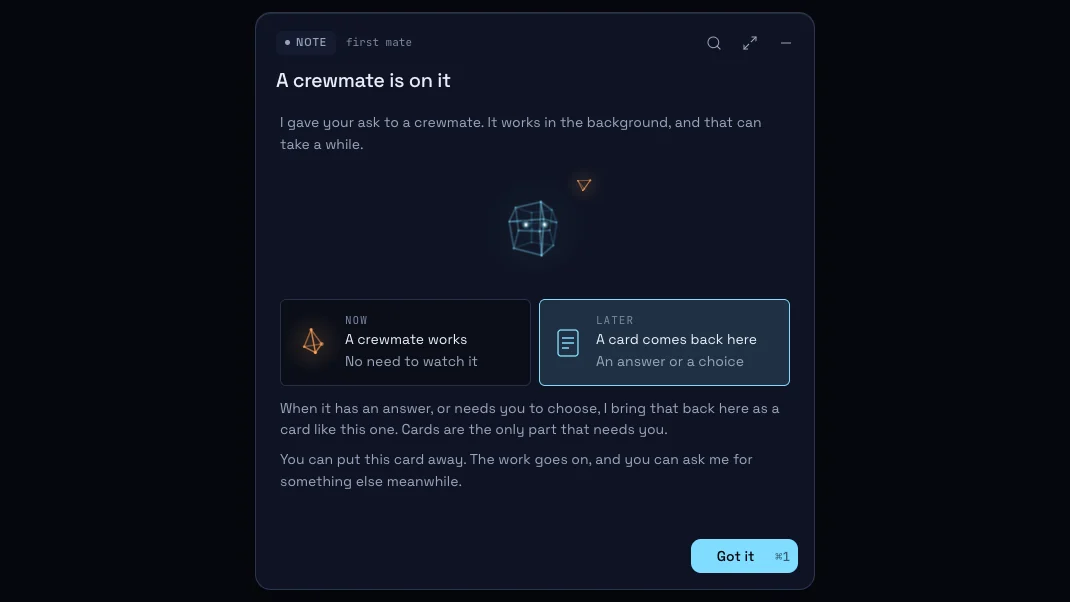
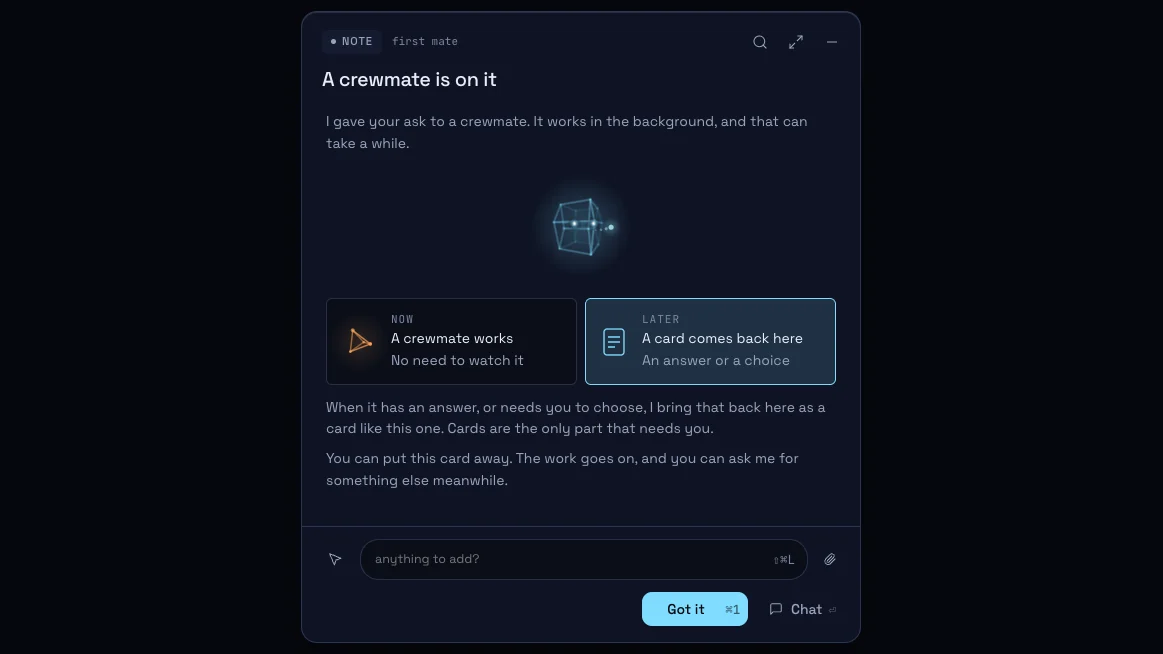
fix(first-run): let the first crewmate's note take a reply
The first crewmate's note now takes a reply the first mate answers, like
every app card but the welcome and the cards shown while the first mate is
down. Its docs, the design readme, the migration 70 comment and the docs
site's pictures of the note follow.

diff --git a/tests/e2e/first-crewmate-note.spec.ts b/tests/e2e/first-crewmate-note.spec.ts
@@ -18,7 +18,7 @@ import {
   FIRST_CREWMATE_CARD_TITLE,
   firstCrewmateCard,
 } from "./scenarios/firstCrewmateCard";
-import { expectNoCard, shownCard, stageAtRest } from "./stack";
+import { cardReply, expectNoCard, shownCard, stageAtRest } from "./stack";
 import { pressWindowKey } from "./windowKeys";
 
 /**
@@ -127,12 +127,10 @@ test("a new person's first crewmate shows its note once, in place of the welcome
       await expectNoCard(page, WELCOME_TITLE);
       expect(await openTitles(page)).toEqual([FIRST_CREWMATE_TITLE]);
       const cards = await page.evaluate(() => window.infinitary.cards.list());
-      expect(cards[0]).toMatchObject({
-        author: "firstmate",
-        actions: [],
-        replies: false,
-        width: "regular",
-      });
+      expect(cards[0]).toMatchObject({ author: "firstmate", actions: [], width: "regular" });
+      // The captain's choice on INF-7001's review: the note takes a reply the first mate answers.
+      expect(cards[0]).not.toHaveProperty("replies");
+      await expect(cardReply(page).field).toBeVisible();
       noteId = cards[0]?.id ?? "";
       const record = await page.evaluate(() => window.infinitary.app.firstRun());
       expect(record.firstCrewmateNoteId).toBe(noteId);

diff --git a/src/core/firstRun.ts b/src/core/firstRun.ts
@@ -101,9 +101,10 @@ export function crewFacts(
  * How the first crewmate's note goes up (docs/first-launch.md "The first
  * crewmate's note"). The welcome steps aside for it (INF-5532, the
  * captain's "replace"): one card at a time, so the crewmate's first card
- * arrives on an open stage rather than behind the welcome. Like the
- * welcome, the note takes no reply and is the regular card its picture was
- * drawn for.
+ * arrives on an open stage rather than behind the welcome. Unlike the
+ * welcome, the note takes a reply, which the first mate answers (the
+ * captain's choice on INF-7001's review); it is the regular card its picture
+ * was drawn for.
  */
 export function presentFirstCrewmateNote(
   cards: Pick<CardService, "addRecordedFirstmateNote" | "has" | "takeDown">,
@@ -112,10 +113,7 @@ export function presentFirstCrewmateNote(
     if (welcomeCardId && cards.has(welcomeCardId)) {
       cards.takeDown(welcomeCardId, "first-crewmate-started");
     }
-    cards.addRecordedFirstmateNote(FIRST_CREWMATE_NOTE, record, {
-      replies: false,
-      width: "regular",
-    });
+    cards.addRecordedFirstmateNote(FIRST_CREWMATE_NOTE, record, { width: "regular" });
   };
 }
 

diff --git a/src/core/storage/migrations.ts b/src/core/storage/migrations.ts
@@ -945,8 +945,9 @@ export const MIGRATIONS: readonly Migration[] = [
   // 70: a card that takes no reply (FI3-1164; docs/card-threads.md "Who
   // answers a card"), as 0: its chrome draws no reply row and the core
   // refuses one, whoever its author is. The host writes it on the welcome
-  // only; null on every other card and on every card written before it,
-  // which take replies as their author allows. No published view reads the
+  // and on the first mate's cards for a seat that is down; null on every
+  // other card and on every card written before it, which take replies as
+  // their author allows. No published view reads the
   // column. Additive and reversible: dropping the column undoes it.
   (db) => addColumn(db, "cards", "replies", "INTEGER"),
   // 71: whom a task's event concerns (FI3-1189's rule 1; docs/task-record.md

diff --git a/src/core/firstRun.test.ts b/src/core/firstRun.test.ts
@@ -441,9 +441,10 @@ describe("the first crewmate's note", () => {
       id: record.firstCrewmateNoteId,
       author: "firstmate",
       actions: [],
-      replies: false,
       width: "regular",
     });
+    // The captain's choice on INF-7001's review: the note takes a reply the first mate answers.
+    expect(f.cards().snapshot()[0]).not.toHaveProperty("replies");
     // Its record keeps the note in words, and the welcome is settled as put away.
     expect(f.tasks.capture.taskForCard(record.firstCrewmateNoteId as string)).toMatchObject({
       kind: "question",

diff --git a/docs-site/src/content/docs/ar/first-launch.md b/docs-site/src/content/docs/ar/first-launch.md
@@ -1,5 +1,5 @@
 ---
-source: 042bc7f3959ec370
+source: 75bebd4c6bb16a9e
 title: التشغيل الأول
 description: ما يعرضه Infinitary أول مرة تفتحه، وكيف تختار أين يقيم نائب القبطان، وكيف تربط اشتراكًا، وكيف تضيف مشروعك الأول.
 ---
@@ -167,8 +167,8 @@ description: ما يعرضه Infinitary أول مرة تفتحه، وكيف تخ
 
 أول مرة يسلّم فيها نائب القبطان طلبًا إلى أحد أفراد الطاقم، تظهر بطاقة عنوانها **أحد أفراد الطاقم يتولى الأمر**.
 
-<img class="picture-dark" src="/pictures/first-launch-crewmate-dark.webp" alt="بطاقة «أحد أفراد الطاقم يتولى الأمر»: نائب القبطان يرسل أحد أفراد الطاقم إلى العمل، وقسم «الآن» يقول إن فردًا من الطاقم يعمل ولا داعي لمراقبته، وقسم «لاحقًا» يقول إن بطاقة تعود إلى هنا بإجابة أو خيار، و«فهمت»." width="1070" height="602" />
-<img class="picture-light" src="/pictures/first-launch-crewmate-light.webp" alt="بطاقة «أحد أفراد الطاقم يتولى الأمر»: نائب القبطان يرسل أحد أفراد الطاقم إلى العمل، وقسم «الآن» يقول إن فردًا من الطاقم يعمل ولا داعي لمراقبته، وقسم «لاحقًا» يقول إن بطاقة تعود إلى هنا بإجابة أو خيار، و«فهمت»." width="1070" height="602" />
+<img class="picture-dark" src="/pictures/first-launch-crewmate-dark.webp" alt="بطاقة «أحد أفراد الطاقم يتولى الأمر»: نائب القبطان يرسل أحد أفراد الطاقم إلى العمل، وقسم «الآن» يقول إن فردًا من الطاقم يعمل ولا داعي لمراقبته، وقسم «لاحقًا» يقول إن بطاقة تعود إلى هنا بإجابة أو خيار، و«فهمت»." width="1163" height="654" />
+<img class="picture-light" src="/pictures/first-launch-crewmate-light.webp" alt="بطاقة «أحد أفراد الطاقم يتولى الأمر»: نائب القبطان يرسل أحد أفراد الطاقم إلى العمل، وقسم «الآن» يقول إن فردًا من الطاقم يعمل ولا داعي لمراقبته، وقسم «لاحقًا» يقول إن بطاقة تعود إلى هنا بإجابة أو خيار، و«فهمت»." width="1163" height="654" />
 
 تقول إن فرد الطاقم يعمل في الخلفية، وقد يستغرق ذلك بعض الوقت، وإنه لا داعي لمراقبته.
 حين تكون لدى فرد الطاقم إجابة، أو يحتاج إلى أن تختار، يعود ذلك إليك في بطاقة.

diff --git a/docs-site/src/content/docs/de/first-launch.md b/docs-site/src/content/docs/de/first-launch.md
@@ -1,5 +1,5 @@
 ---
-source: 042bc7f3959ec370
+source: 75bebd4c6bb16a9e
 title: Der erste Start
 description: Was Infinitary beim ersten Öffnen zeigt, wie du wählst, wo dein erster Offizier lebt, wie du ein Abo verbindest und wie du dein erstes Projekt hinzufügst.
 ---
@@ -167,8 +167,8 @@ Drück **Verstanden**, um sie wegzulegen, wann immer du willst.
 
 Wenn dein erster Offizier zum ersten Mal eine Bitte an ein Crewmitglied gibt, erscheint eine Karte mit dem Titel **Ein Crewmitglied ist dran**.
 
-<img class="picture-dark" src="/pictures/first-launch-crewmate-dark.webp" alt="Die Karte „Ein Crewmitglied ist dran“: der erste Offizier, der ein Crewmitglied losschickt, ein Bereich „Jetzt“, der sagt, dass ein Crewmitglied arbeitet und du nicht zusehen musst, ein Bereich „Später“, der sagt, dass eine Karte mit einer Antwort oder einer Entscheidung hierher zurückkommt, und „Verstanden“." width="1070" height="602" />
-<img class="picture-light" src="/pictures/first-launch-crewmate-light.webp" alt="Die Karte „Ein Crewmitglied ist dran“: der erste Offizier, der ein Crewmitglied losschickt, ein Bereich „Jetzt“, der sagt, dass ein Crewmitglied arbeitet und du nicht zusehen musst, ein Bereich „Später“, der sagt, dass eine Karte mit einer Antwort oder einer Entscheidung hierher zurückkommt, und „Verstanden“." width="1070" height="602" />
+<img class="picture-dark" src="/pictures/first-launch-crewmate-dark.webp" alt="Die Karte „Ein Crewmitglied ist dran“: der erste Offizier, der ein Crewmitglied losschickt, ein Bereich „Jetzt“, der sagt, dass ein Crewmitglied arbeitet und du nicht zusehen musst, ein Bereich „Später“, der sagt, dass eine Karte mit einer Antwort oder einer Entscheidung hierher zurückkommt, und „Verstanden“." width="1163" height="654" />
+<img class="picture-light" src="/pictures/first-launch-crewmate-light.webp" alt="Die Karte „Ein Crewmitglied ist dran“: der erste Offizier, der ein Crewmitglied losschickt, ein Bereich „Jetzt“, der sagt, dass ein Crewmitglied arbeitet und du nicht zusehen musst, ein Bereich „Später“, der sagt, dass eine Karte mit einer Antwort oder einer Entscheidung hierher zurückkommt, und „Verstanden“." width="1163" height="654" />
 
 Sie sagt, dass das Crewmitglied im Hintergrund arbeitet, was eine Weile dauern kann, und dass du nicht zusehen musst.
 Wenn das Crewmitglied eine Antwort hat oder du etwas entscheiden musst, kommt das als Karte zurück.

diff --git a/docs-site/src/content/docs/fr/first-launch.md b/docs-site/src/content/docs/fr/first-launch.md
@@ -1,5 +1,5 @@
 ---
-source: 042bc7f3959ec370
+source: 75bebd4c6bb16a9e
 title: Premier lancement
 description: Ce qu’Infinitary affiche la première fois que vous l’ouvrez, comment choisir où vit votre second, comment connecter un abonnement et comment ajouter votre premier projet.
 ---
@@ -167,8 +167,8 @@ Appuyez sur **Compris** pour la ranger quand vous voulez.
 
 La première fois que votre second confie une demande à un équipier, une carte intitulée **Un équipier s'en occupe** apparaît.
 
-<img class="picture-dark" src="/pictures/first-launch-crewmate-dark.webp" alt="La carte Un équipier s'en occupe : le second qui envoie un équipier au travail, un panneau Maintenant indiquant qu’un équipier travaille et qu’il est inutile de le surveiller, un panneau Plus tard indiquant qu’une carte revient ici avec une réponse ou un choix, et Compris." width="1070" height="602" />
-<img class="picture-light" src="/pictures/first-launch-crewmate-light.webp" alt="La carte Un équipier s'en occupe : le second qui envoie un équipier au travail, un panneau Maintenant indiquant qu’un équipier travaille et qu’il est inutile de le surveiller, un panneau Plus tard indiquant qu’une carte revient ici avec une réponse ou un choix, et Compris." width="1070" height="602" />
+<img class="picture-dark" src="/pictures/first-launch-crewmate-dark.webp" alt="La carte Un équipier s'en occupe : le second qui envoie un équipier au travail, un panneau Maintenant indiquant qu’un équipier travaille et qu’il est inutile de le surveiller, un panneau Plus tard indiquant qu’une carte revient ici avec une réponse ou un choix, et Compris." width="1163" height="654" />
+<img class="picture-light" src="/pictures/first-launch-crewmate-light.webp" alt="La carte Un équipier s'en occupe : le second qui envoie un équipier au travail, un panneau Maintenant indiquant qu’un équipier travaille et qu’il est inutile de le surveiller, un panneau Plus tard indiquant qu’une carte revient ici avec une réponse ou un choix, et Compris." width="1163" height="654" />
 
 Elle indique que l’équipier travaille en arrière-plan, ce qui peut prendre un moment, et que vous n’avez pas besoin de le surveiller.
 Quand l’équipier a une réponse, ou a besoin que vous choisissiez, cela vous revient sous forme de carte.

diff --git a/.claude/skills/infinitary-design/readme.md b/.claude/skills/infinitary-design/readme.md
@@ -23,9 +23,9 @@ The product feeling: **calm, peaceful, confident, futuristic, a bit of space-tra
   Since INF-5609 its first mate and crewmate are the real ones from the center, drawn smaller and calm (drift and blinks only) by the app's own stage part, one settled frame under reduced motion.
   Under it, "To begin, press one and finish the sentence:" and three starters (Clone a project, Start a new project, Work in a folder on my computer), whose press puts the start of an ask in the message box with the caret after it, sending nothing.
   On the first mate's own computer, Work in a folder on my computer opens the system's folder picker instead and adds the chosen folder as a project; a quiet line under the card's title then names it and points at the message box, where focus goes, and a refusal takes the card's error line.
-  The note has the shared minimize corner and no reply row; on a first installation no What's new card follows it, and the Tasks panel shows collapsed on the right from its creation on.
+  The note has the shared minimize corner and a reply row the first mate answers; on a first installation no What's new card follows it, and the Tasks panel shows collapsed on the right from its creation on.
   When a new person's first crewmate starts, the app shows one more note, once, titled "A crewmate is on it" (INF-5532; copy in the app's `src/shared/firstCrewmateNote.ts`): one sentence on the handoff, a 180 px stage where the real first mate sends the crewmate off into its orbit (INF-5609), two wrapping text panels side by side - Now, beside the real crewmate at 40 px, working, and Later, beside a card on `--accent-dim` with an `--accent` border - then two sentences saying cards are the only part that needs the person and the card can be put away.
-  Regular width, no reply row, one Got it; a welcome still open steps aside for it.
+  Regular width, a reply row the first mate answers, one Got it; a welcome still open steps aside for it.
   Older installations and preconfigured starts are skipped; pending survives restart, creation is atomic and once-only, dismissal stays final, and an accepted first ask skips any still-uncreated introduction.
   A paused account alone does not qualify.
   Existing cards stay shown, and focus and panel choices stay unchanged.

diff --git a/docs-site/src/content/docs/es/first-launch.md b/docs-site/src/content/docs/es/first-launch.md
@@ -1,5 +1,5 @@
 ---
-source: 042bc7f3959ec370
+source: 75bebd4c6bb16a9e
 title: Primer inicio
 description: Lo que Infinitary muestra la primera vez que lo abres, cómo elegir dónde vive tu primer oficial, cómo conectar una suscripción y cómo agregar tu primer proyecto.
 ---
@@ -167,8 +167,8 @@ Presiona **Entendido** para guardarla cuando quieras.
 
 La primera vez que tu primer oficial le pasa una petición a un tripulante, aparece una tarjeta titulada **Un tripulante se encarga**.
 
-<img class="picture-dark" src="/pictures/first-launch-crewmate-dark.webp" alt="La tarjeta Un tripulante se encarga: el primer oficial enviando a un tripulante, un recuadro Ahora que dice que un tripulante trabaja y que no hace falta vigilarlo, un recuadro Después que dice que vuelve aquí una tarjeta con una respuesta o una elección, y Entendido." width="1070" height="602" />
-<img class="picture-light" src="/pictures/first-launch-crewmate-light.webp" alt="La tarjeta Un tripulante se encarga: el primer oficial enviando a un tripulante, un recuadro Ahora que dice que un tripulante trabaja y que no hace falta vigilarlo, un recuadro Después que dice que vuelve aquí una tarjeta con una respuesta o una elección, y Entendido." width="1070" height="602" />
+<img class="picture-dark" src="/pictures/first-launch-crewmate-dark.webp" alt="La tarjeta Un tripulante se encarga: el primer oficial enviando a un tripulante, un recuadro Ahora que dice que un tripulante trabaja y que no hace falta vigilarlo, un recuadro Después que dice que vuelve aquí una tarjeta con una respuesta o una elección, y Entendido." width="1163" height="654" />
+<img class="picture-light" src="/pictures/first-launch-crewmate-light.webp" alt="La tarjeta Un tripulante se encarga: el primer oficial enviando a un tripulante, un recuadro Ahora que dice que un tripulante trabaja y que no hace falta vigilarlo, un recuadro Después que dice que vuelve aquí una tarjeta con una respuesta o una elección, y Entendido." width="1163" height="654" />
 
 Dice que el tripulante trabaja en segundo plano, lo que puede llevar un rato, y que no hace falta que lo vigiles.
 Cuando el tripulante tiene una respuesta, o necesita que elijas, vuelve como una tarjeta.

diff --git a/docs-site/src/content/docs/pt-br/first-launch.md b/docs-site/src/content/docs/pt-br/first-launch.md
@@ -1,5 +1,5 @@
 ---
-source: 042bc7f3959ec370
+source: 75bebd4c6bb16a9e
 title: Primeira abertura
 description: O que o Infinitary mostra na primeira vez que você o abre, como escolher onde seu imediato mora, como conectar uma assinatura e como adicionar seu primeiro projeto.
 ---
@@ -167,8 +167,8 @@ Pressione **Entendi** para guardá-lo quando quiser.
 
 Na primeira vez que seu imediato passa um pedido para um tripulante, aparece um cartão chamado **Um tripulante está cuidando disso**.
 
-<img class="picture-dark" src="/pictures/first-launch-crewmate-dark.webp" alt="O cartão Um tripulante está cuidando disso: o imediato despachando um tripulante, um painel Agora dizendo que um tripulante trabalha e que não precisa acompanhar, um painel Depois dizendo que um cartão volta aqui com uma resposta ou uma escolha, e Entendi." width="1070" height="602" />
-<img class="picture-light" src="/pictures/first-launch-crewmate-light.webp" alt="O cartão Um tripulante está cuidando disso: o imediato despachando um tripulante, um painel Agora dizendo que um tripulante trabalha e que não precisa acompanhar, um painel Depois dizendo que um cartão volta aqui com uma resposta ou uma escolha, e Entendi." width="1070" height="602" />
+<img class="picture-dark" src="/pictures/first-launch-crewmate-dark.webp" alt="O cartão Um tripulante está cuidando disso: o imediato despachando um tripulante, um painel Agora dizendo que um tripulante trabalha e que não precisa acompanhar, um painel Depois dizendo que um cartão volta aqui com uma resposta ou uma escolha, e Entendi." width="1163" height="654" />
+<img class="picture-light" src="/pictures/first-launch-crewmate-light.webp" alt="O cartão Um tripulante está cuidando disso: o imediato despachando um tripulante, um painel Agora dizendo que um tripulante trabalha e que não precisa acompanhar, um painel Depois dizendo que um cartão volta aqui com uma resposta ou uma escolha, e Entendi." width="1163" height="654" />
 
 Ele diz que o tripulante trabalha em segundo plano, o que pode levar um tempo, e que você não precisa acompanhar.
 Quando o tripulante tiver uma resposta, ou precisar que você escolha, isso volta como um cartão.
